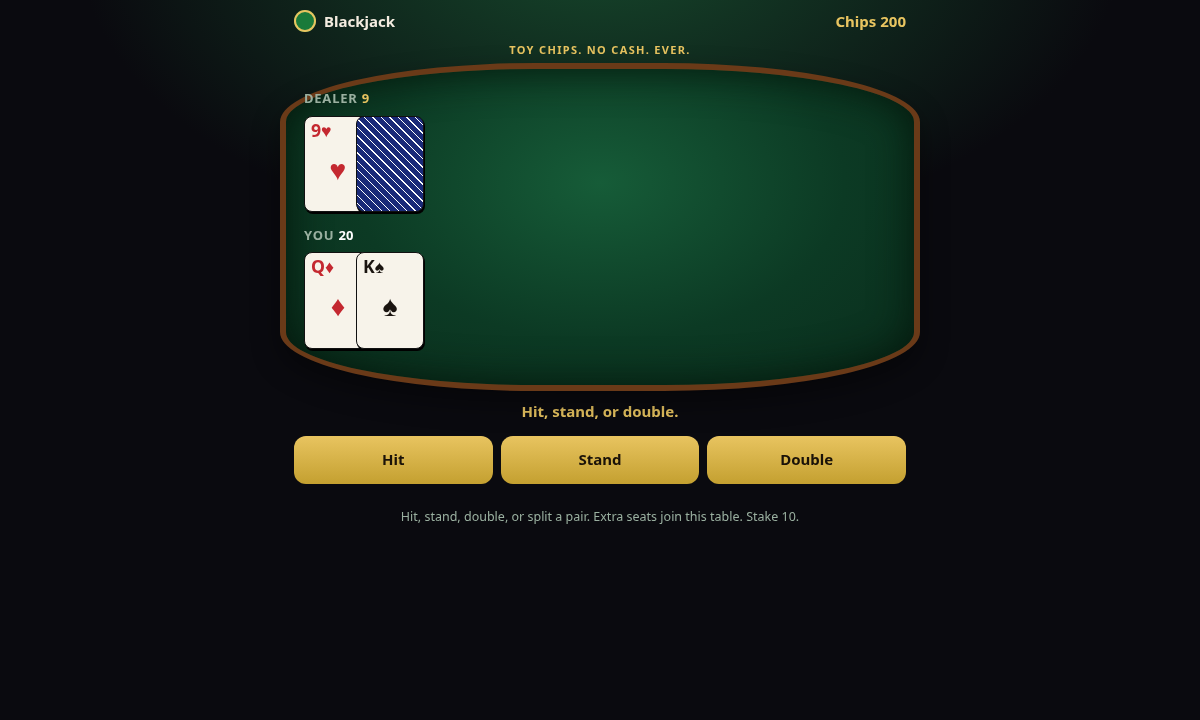
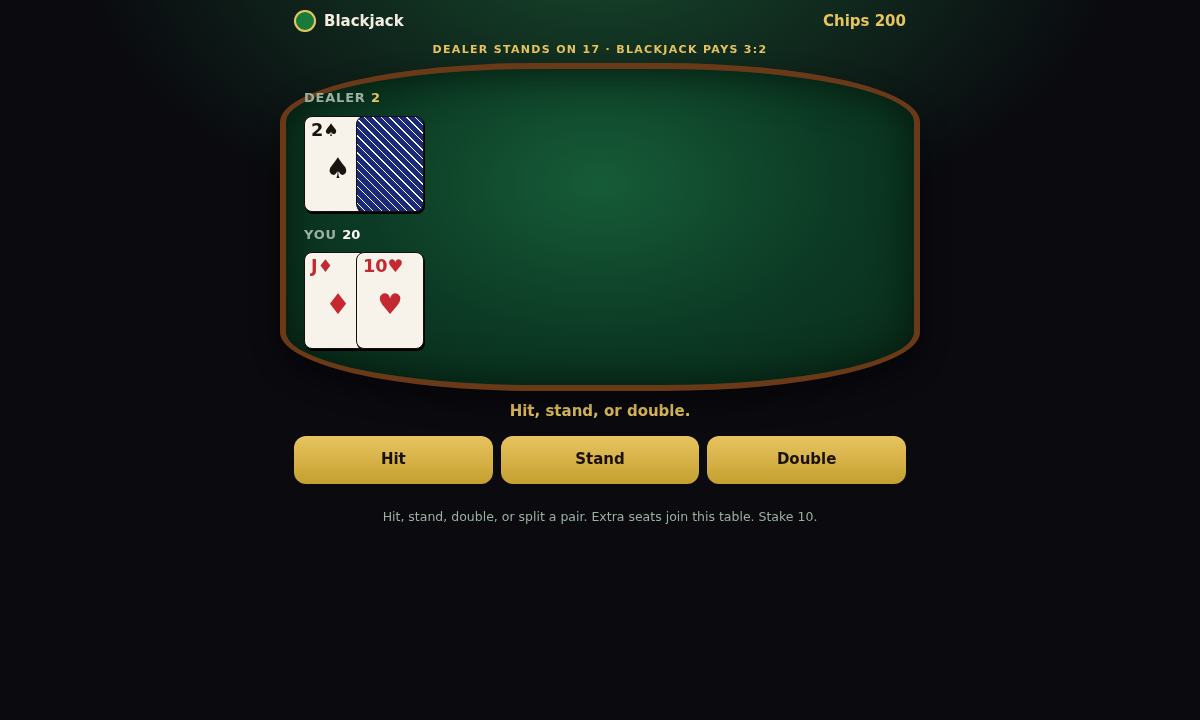
blackjack: it is a computer game; stop announcing there is no cash
"Toy chips. No cash. Ever." ran as a gold banner over the felt, again in
the idle line, again in the help, the README, the manifest, the listing
tagline AND description, two source-file headers, three in-app messages,
and burned into the store cover art. Nothing about a browser card game
suggests a cashier, so protesting seven times read as nervous, not
careful.

All of it is gone. Where the copy held a real slot it now says something
true about the game instead: the felt banner is DEALER STANDS ON 17 ·
BLACKJACK PAYS 3:2, the out-of-chips prompt is "Restock 200 and deal
again", the restock confirmation is "Fresh pile. 200 chips", and the
listing leads with the rules rather than a disclaimer. .toy is now
.rules.

The cover art was a real browser capture, not the procedural fallback in
icon.mjs, so the banner was baked into the PNG. test/tools/shot-blackjack.js
re-takes it: serves apps/blackjack standalone (no window.gifos, so solo
play), deals until the hand is a plain hit/stand/double at 19-20, shoots
1200x720. icon.mjs's procedural fallback got the same new banner so the
two cannot disagree. GIF rebuilt and re-signed, catalog regenerated,
--check --require-signed green.

The unit suite pinned the old wording in three assertions; they now pin
the rules instead, and a new check sweeps listing, help, index.html and
app.js for /no cash|toy chip|never cash|nothing is paid|not cash/ so the
disclaimer cannot creep back.

diff --git a/test/unit/blackjack.js b/test/unit/blackjack.js
@@ -99,7 +99,7 @@ check('8-8 is a pair, 10-K is not', BJ.isPair([eight, eightH]) && !BJ.isPair([te
 check('broke table: 0 chips cannot cover a 10 stake', BJ.canDeal(0, 10) === false);
 check('9 chips still cannot deal', BJ.canDeal(9, 10) === false);
 check('10 chips can deal', BJ.canDeal(10, 10) === true);
-check('a refill is 200 toy chips', BJ.REFILL === 200 && BJ.START === 200 && BJ.STAKE === 10);
+check('a refill is 200 chips', BJ.REFILL === 200 && BJ.START === 200 && BJ.STAKE === 10);
 
 // PLAY a natural from a known shoe. Deal order: P, D, P, D.
 {
@@ -135,7 +135,7 @@ check('a refill is 200 toy chips', BJ.REFILL === 200 && BJ.START === 200 && BJ.S
   const live = p <= 21;
   check('S17: a live player leaves the dealer at 17+', !live || d >= 17, { d: d, p: p });
   const net = sand.BJ.netFor(tab, 'p');
-  check('the payout is a legal toy delta', net === -10 || net === 0 || net === 10 || net === 15, net);
+  check('the payout is a legal chip delta', net === -10 || net === 0 || net === 10 || net === 15, net);
   let chips = 200;
   chips = sand.BJ.applyDeltas(chips, [net]);
   check('bankroll moves and never goes negative', chips >= 0 && chips === 200 + net, chips);
@@ -253,14 +253,14 @@ check('H/S/D tap-or-key hit, stand, double',
   /k === 'h'/.test(app) && /k === 's'/.test(app) && /k === 'd'/.test(app));
 check('the prompt drops Double after a hit (does not keep the deal-time msg)',
   /canSplit\(tab, me\.id, chips\)/.test(app) && /Hit or stand\./.test(app));
-check('restock adds REFILL toy chips',
+check('restock adds REFILL chips',
   /chips\s*=\s*chips\s*\+\s*BJ\.REFILL/.test(app) && /id="refill"/.test(html));
-check('help says toy / no cash, 3:2, stands on 17, double, split, restock',
-  /no cash/i.test(help) && /3:2/.test(help) && /stands on 17/.test(help) &&
+check('help says 3:2, stands on 17, double, split, restock',
+  /3:2/.test(help) && /stands on 17/.test(help) &&
   /Double/.test(help) && /Split/.test(help) && /Restock/.test(help));
-check('listing leads with no cash / file / invite',
-  /no cash/i.test(listing.tagline) && /file/i.test(listing.tagline) && /Invite/i.test(listing.tagline) &&
-  /never cash/i.test(listing.description) && /file/i.test(listing.description) && /link/i.test(listing.description));
+check('listing leads with the game / file / invite',
+  /21/.test(listing.tagline) && /file/i.test(listing.tagline) && /Invite/i.test(listing.tagline) &&
+  /3:2/.test(listing.description) && /file/i.test(listing.description) && /link/i.test(listing.description));
 check('listing tagline fits a card', listing.tagline.length <= 80);
 check('author is hanhaechi, not GifOS', listing.author.name === 'hanhaechi' && listing.porter.name === 'GifOS');
 check('minBuild stays 947', manifest.minBuild === 947);
@@ -270,7 +270,10 @@ check('no CDN / webfont / remote at load',
   !/https?:\/\//i.test(html.replace(/<!--[\s\S]*?-->/g, '')) &&
   !/@import|fonts\.google/i.test(css));
 check('classic scripts only', !/type=["']module["']/.test(html));
-check('no cash-as-real-money copy in the listing',
+// The app is a computer game; it does not protest that it is one. No "toy
+// chips", no "no cash, ever" — that copy read as nervous and is gone for good.
+check('no cash disclaimers, and no cash-as-real-money copy either',
+  !/no cash|toy chip|never cash|nothing is paid|not cash/i.test(listing.description + ' ' + listing.tagline + ' ' + help + ' ' + html + ' ' + app) &&
   !/real money|payout to|withdraw|deposit/i.test(listing.description));
 
 if (failures) {

diff --git a/test/tools/shot-blackjack.js b/test/tools/shot-blackjack.js
@@ -1,0 +1,36 @@
+// Screenshot the Blackjack app mid-hand, for apps/blackjack/screenshot.png.
+// Runs the app standalone (no window.gifos → solo table), deals until the
+// hand is a plain hit/stand/double decision, then shoots 1200×720.
+const { chromium, CHROME } = require('../lib/pw');
+const { spawn } = require('child_process');
+const path = require('path');
+
+const DIR = path.join(__dirname, '..', '..', 'apps', 'blackjack');
+const OUT = path.join(DIR, 'screenshot.png');
+const PORT = 8123;
+const sleep = (ms) => new Promise((r) => setTimeout(r, ms));
+
+(async () => {
+  const srv = spawn('python3', ['-m', 'http.server', String(PORT), '-d', DIR], { stdio: 'ignore' });
+  await sleep(700);
+  const browser = await chromium.launch({ executablePath: CHROME });
+  const context = await browser.newContext({ viewport: { width: 1200, height: 720 }, deviceScaleFactor: 1 });
+  const page = await context.newPage();
+  let ok = false;
+  for (let tries = 0; tries < 40 && !ok; tries++) {
+    await page.goto('http://127.0.0.1:' + PORT + '/index.html');
+    await page.waitForSelector('#deal');
+    await page.click('#deal');
+    await sleep(250);
+    const msg = (await page.textContent('#msg')) || '';
+    const you = (await page.textContent('#pHands')) || '';
+    const total = Number((you.match(/You\s*(\d+)/) || [])[1]);
+    ok = msg === 'Hit, stand, or double.' && total >= 19 && total <= 20;
+  }
+  if (!ok) throw new Error('never dealt a clean hit/stand/double hand');
+  await sleep(300);
+  await page.screenshot({ path: OUT });
+  console.log('wrote apps/blackjack/screenshot.png');
+  await browser.close();
+  srv.kill();
+})().catch((e) => { console.error(e); process.exit(1); });

diff --git a/site/go/blackjack/index.html b/site/go/blackjack/index.html
@@ -4,12 +4,12 @@
 <meta charset="utf-8">
 <meta name="viewport" content="width=device-width, initial-scale=1">
 <title>Blackjack on GifOS</title>
-<meta name="description" content="No cash. The file holds your chips. Invite is extra seats.">
+<meta name="description" content="Beat the dealer to 21. The file holds your chips. Invite is extra seats.">
 <link rel="canonical" href="https://gifos.app/go/blackjack/">
 <meta property="og:type" content="website">
 <meta property="og:site_name" content="GifOS">
 <meta property="og:title" content="Blackjack on GifOS">
-<meta property="og:description" content="No cash. The file holds your chips. Invite is extra seats.">
+<meta property="og:description" content="Beat the dealer to 21. The file holds your chips. Invite is extra seats.">
 <meta property="og:url" content="https://gifos.app/go/blackjack/">
 <meta property="og:image" content="https://gifos.app/apps/blackjack/cover.jpg">
 <meta property="og:image:width" content="1200">
@@ -17,7 +17,7 @@
 <meta property="og:image:alt" content="Blackjack on GifOS">
 <meta name="twitter:card" content="summary_large_image">
 <meta name="twitter:title" content="Blackjack on GifOS">
-<meta name="twitter:description" content="No cash. The file holds your chips. Invite is extra seats.">
+<meta name="twitter:description" content="Beat the dealer to 21. The file holds your chips. Invite is extra seats.">
 <meta name="twitter:image" content="https://gifos.app/apps/blackjack/cover.jpg">
 <meta name="twitter:image:alt" content="Blackjack on GifOS">
 <script>location.replace("https://gifos.app/?run=blackjack");</script>

diff --git a/apps/blackjack/app.js b/apps/blackjack/app.js
@@ -1,5 +1,5 @@
 // Blackjack table. Dealer in the host browser. Invite is extra seats.
-// Toy chips, no cash. The sample API stays behind.
+// Chips live in the file. The sample API stays behind.
 (function () {
   'use strict';
   var BJ = window.BJ;
@@ -191,7 +191,7 @@
     var msg = $('msg');
     if (!tab) {
       if (mp.on && people.length && !amHost(people)) msg.textContent = 'Waiting for the host to deal.';
-      else if (!BJ.canDeal(chips, BJ.STAKE)) msg.textContent = 'You are out of chips. They are toys — restock 200.';
+      else if (!BJ.canDeal(chips, BJ.STAKE)) msg.textContent = 'You are out of chips. Restock 200 and deal again.';
       else msg.textContent = 'Deal when you are ready.';
     } else if (tab.phase === 'play') {
       var mine = BJ.activeHand(tab, me.id);
@@ -220,7 +220,7 @@
 
   function startLocal() {
     if (!BJ.canDeal(chips, BJ.STAKE)) {
-      $('msg').textContent = 'You are out of chips. They are toys — restock 200.';
+      $('msg').textContent = 'You are out of chips. Restock 200 and deal again.';
       render();
       return;
     }
@@ -324,7 +324,7 @@
     chips = chips + BJ.REFILL;
     showChips();
     persistChips();
-    $('msg').textContent = '200 toy chips. Nothing is paid out.';
+    $('msg').textContent = 'Fresh pile. 200 chips.';
     render();
   };
 

diff --git a/apps/blackjack/index.html b/apps/blackjack/index.html
@@ -11,9 +11,9 @@
   <div class="brand"><span class="logo" aria-hidden="true"></span> Blackjack</div>
   <div class="chips">Chips <span id="chips">200</span></div>
 </header>
-<p class="toy">Toy chips. No cash. Ever.</p>
+<p class="rules">Dealer stands on 17 &middot; Blackjack pays 3:2</p>
 <div class="felt">
-  <p class="felt-idle" id="feltIdle">Beat the dealer to 21. Toy chips. No cash.</p>
+  <p class="felt-idle" id="feltIdle">Beat the dealer to 21 without going over.</p>
   <section class="dealer" id="dealer">
     <h2>Dealer <span id="dTotal">~</span></h2>
     <div class="cards" id="dCards"></div>
@@ -29,7 +29,7 @@
   <button type="button" id="stand" hidden aria-label="Stand">Stand</button>
   <button type="button" id="double" hidden aria-label="Double">Double</button>
   <button type="button" id="split" hidden aria-label="Split">Split</button>
-  <button type="button" id="refill" hidden aria-label="Restock toy chips">Restock 200</button>
+  <button type="button" id="refill" hidden aria-label="Restock chips">Restock 200</button>
 </div>
 <p class="hint">Hit, stand, double, or split a pair. Extra seats join this table. Stake 10.</p>
 <script src="bj.js"></script>

diff --git a/apps/blackjack/style.css b/apps/blackjack/style.css
@@ -13,7 +13,7 @@ header{display:flex;justify-content:space-between;align-items:center;padding:10p
 .brand{font-weight:800;display:flex;align-items:center;gap:8px}
 .logo{width:22px;height:22px;border-radius:50%;background:#1a7a3a;box-shadow:inset 0 0 0 2px var(--gold)}
 .chips{color:var(--gold);font-weight:800;font-variant-numeric:tabular-nums}
-.toy{text-align:center;color:var(--gold);font-size:11px;letter-spacing:.12em;text-transform:uppercase;margin:0 0 6px;font-weight:700}
+.rules{text-align:center;color:var(--gold);font-size:11px;letter-spacing:.12em;text-transform:uppercase;margin:0 0 6px;font-weight:700}
 .felt{
   max-width:640px;margin:0 auto 8px;padding:16px 12px 18px;
   background:radial-gradient(ellipse at 50% 36%, #165c38 0%, var(--felt) 55%, var(--felt2) 100%);

diff --git a/apps/blackjack/bj.js b/apps/blackjack/bj.js
@@ -1,5 +1,5 @@
 // Destack of hanhaechi/blackjack casino.js + blackjack.js (MIT).
-// One 52-card shoe. Toy chips, never cash. Dealer stands on 17 (S17).
+// One 52-card shoe. Dealer stands on 17 (S17).
 (function (g) {
   'use strict';
   var SUITS = ['hearts', 'diamonds', 'clubs', 'spades'];

diff --git a/apps/blackjack/help.md b/apps/blackjack/help.md
@@ -1,12 +1,12 @@
 # Blackjack
 
-Beat the dealer to 21 without going over. **Toy chips. No cash. Ever.** Nothing is wagered and nothing is paid out.
+Beat the dealer to 21 without going over.
 
 Face cards are 10. Aces count 11 until that would bust, then 1. The dealer hits a 16 and **stands on 17**, including a soft 17. A natural 21 on the first two cards is blackjack and pays **3:2**. A 21 after a hit, double, or split is even money.
 
 Stake is **10** chips. A fresh pile is **200**. Bust, lose, or a dealer blackjack costs the stake. A win pays even money. A push returns the stake. **Double** (first two cards) takes one more card and doubles the stake. **Split** a pair once; each half is its own hand. Split aces get one card each and stand.
 
-If the pile cannot cover the stake, the table says so. **Restock 200** adds toy chips. Still not cash.
+If the pile cannot cover the stake, the table says so. **Restock 200** deals you a fresh pile.
 
 ## Controls
 

diff --git a/apps/blackjack/README.md b/apps/blackjack/README.md
@@ -1,8 +1,8 @@
 # Blackjack
 
-Beat the dealer to 21. Invite is extra seats. No cash.
+Beat the dealer to 21. Invite is extra seats.
 
-An unofficial port of **[blackjack](https://github.com/hanhaechi/blackjack)** by hanhaechi (MIT). Upstream is vanilla JS plus jQuery, Bootstrap, a PNG deck, and AJAX to a sample API. **The server is gone.** The dealer runs in the host browser. Cards are CSS. Toy chips live in the file.
+An unofficial port of **[blackjack](https://github.com/hanhaechi/blackjack)** by hanhaechi (MIT). Upstream is vanilla JS plus jQuery, Bootstrap, a PNG deck, and AJAX to a sample API. **The server is gone.** The dealer runs in the host browser. Cards are CSS. Your chips live in the file.
 
 ```
 index.html          felt, dealer, seats, deal / hit / stand / double / split
